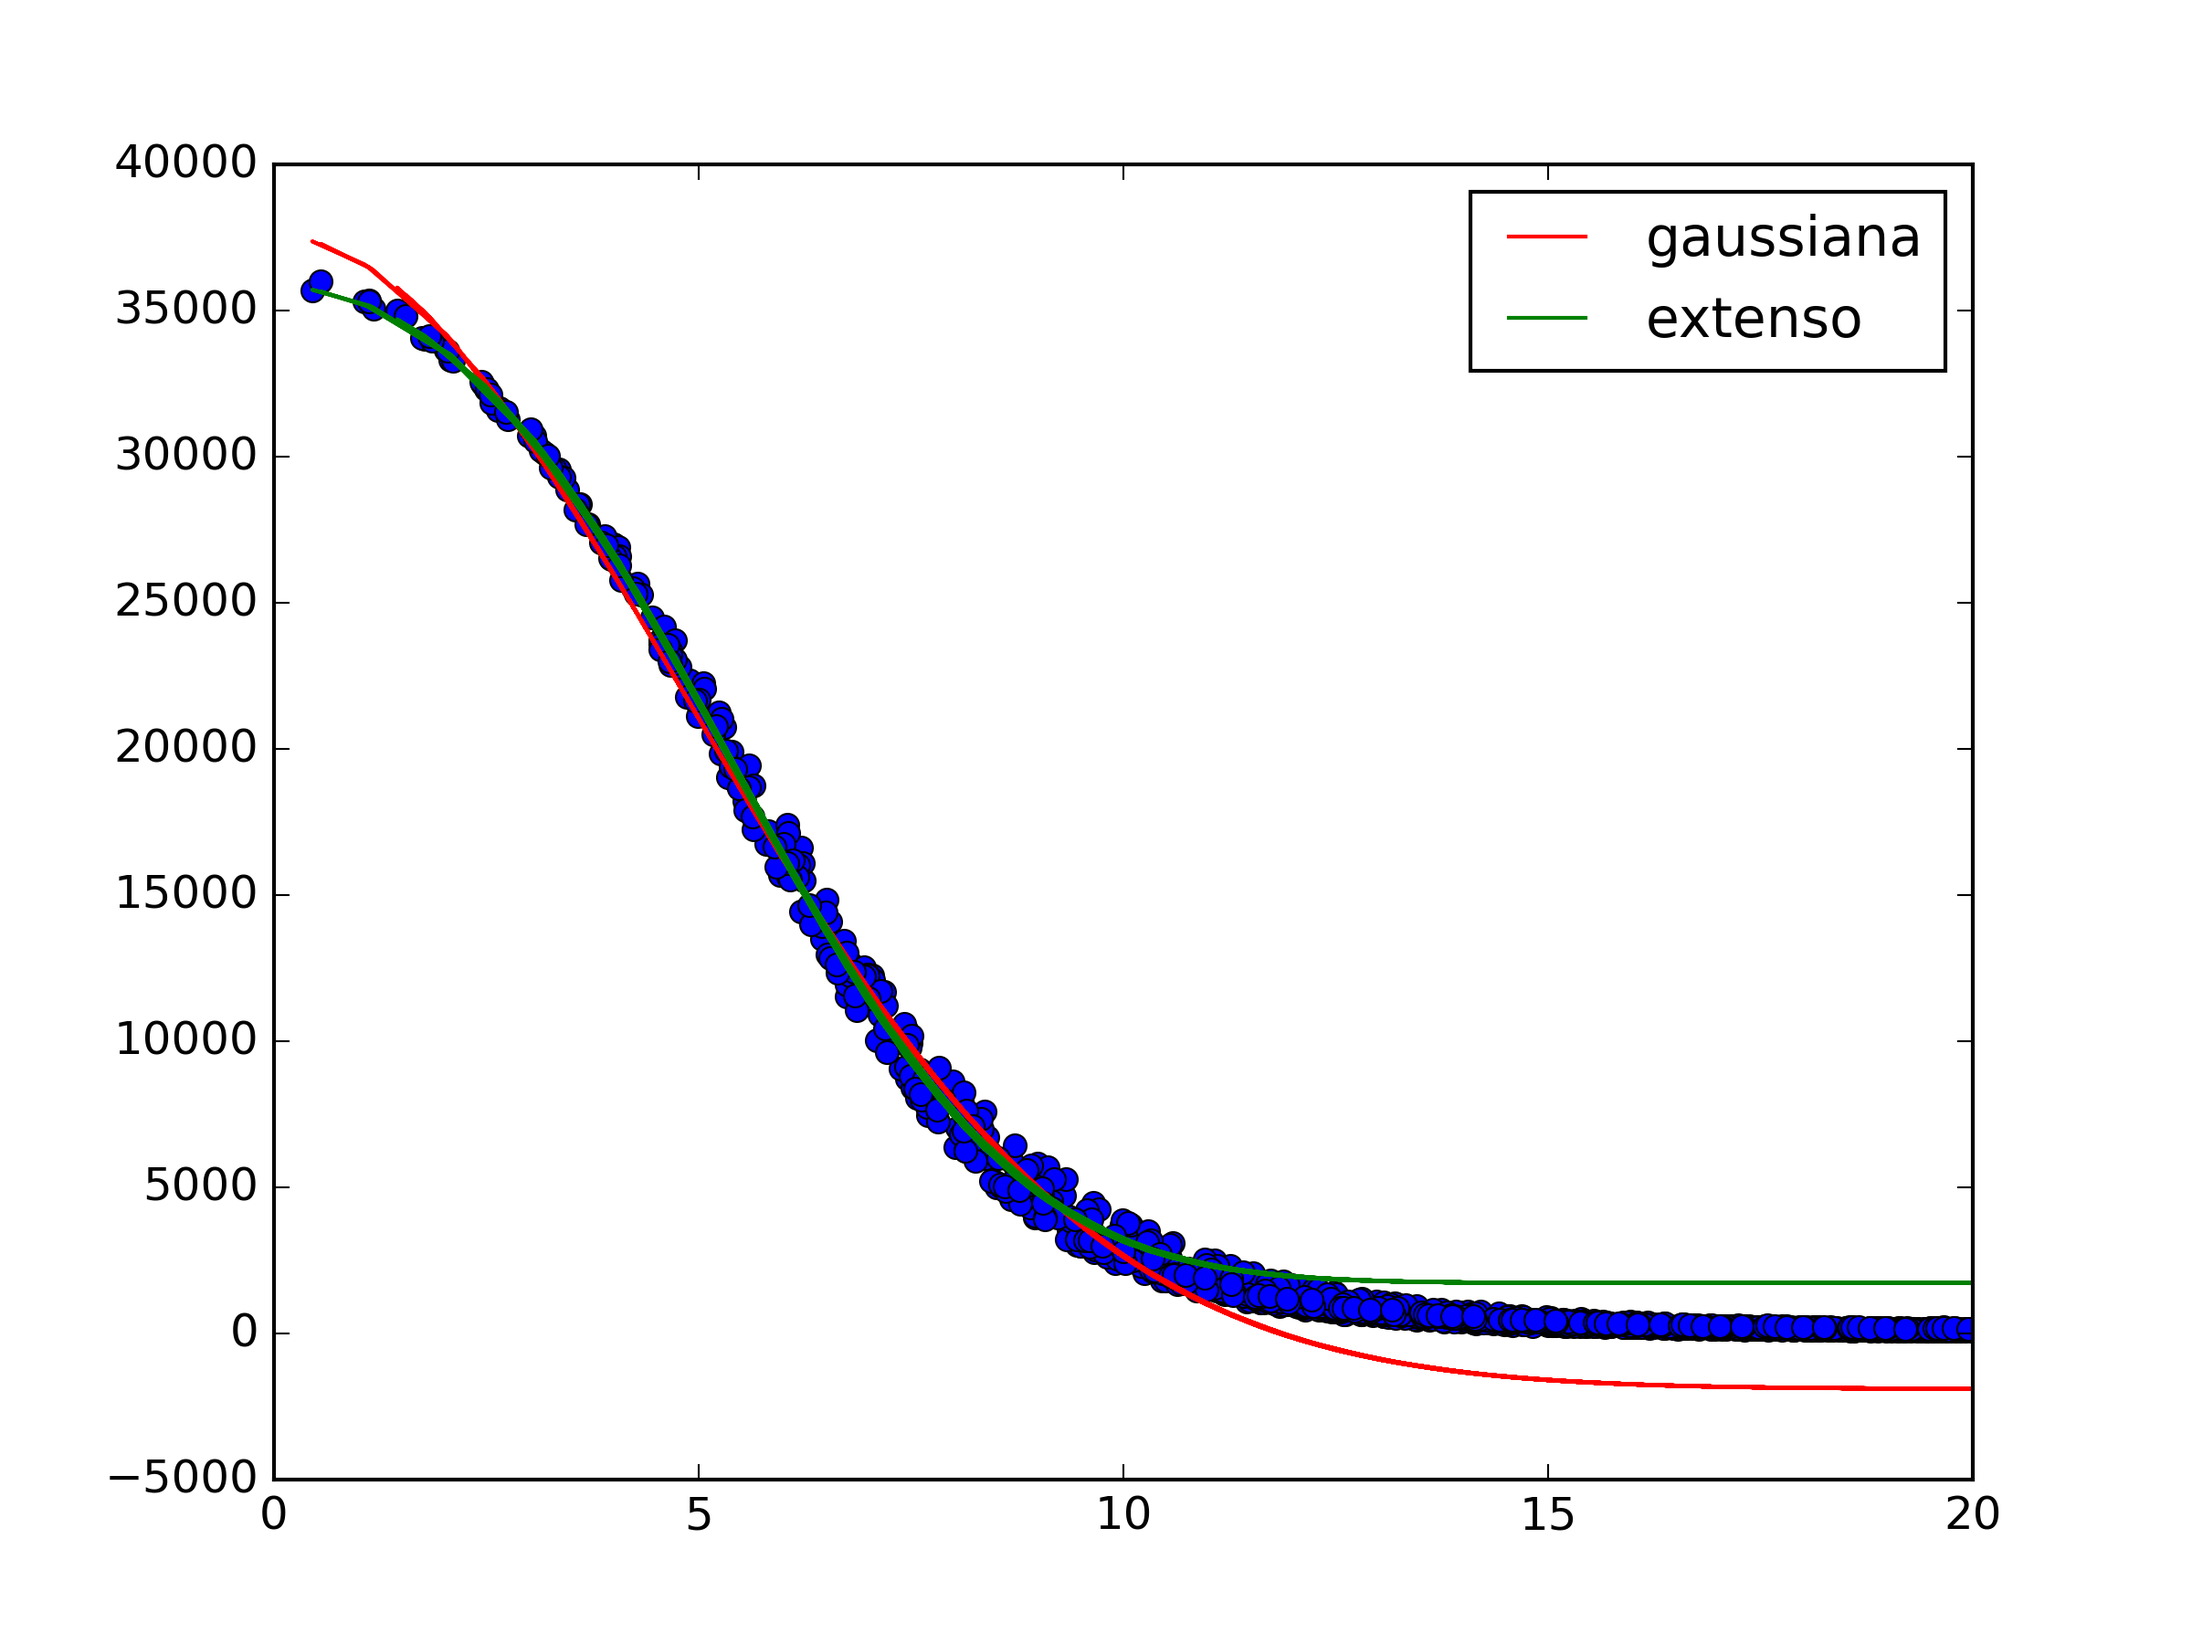
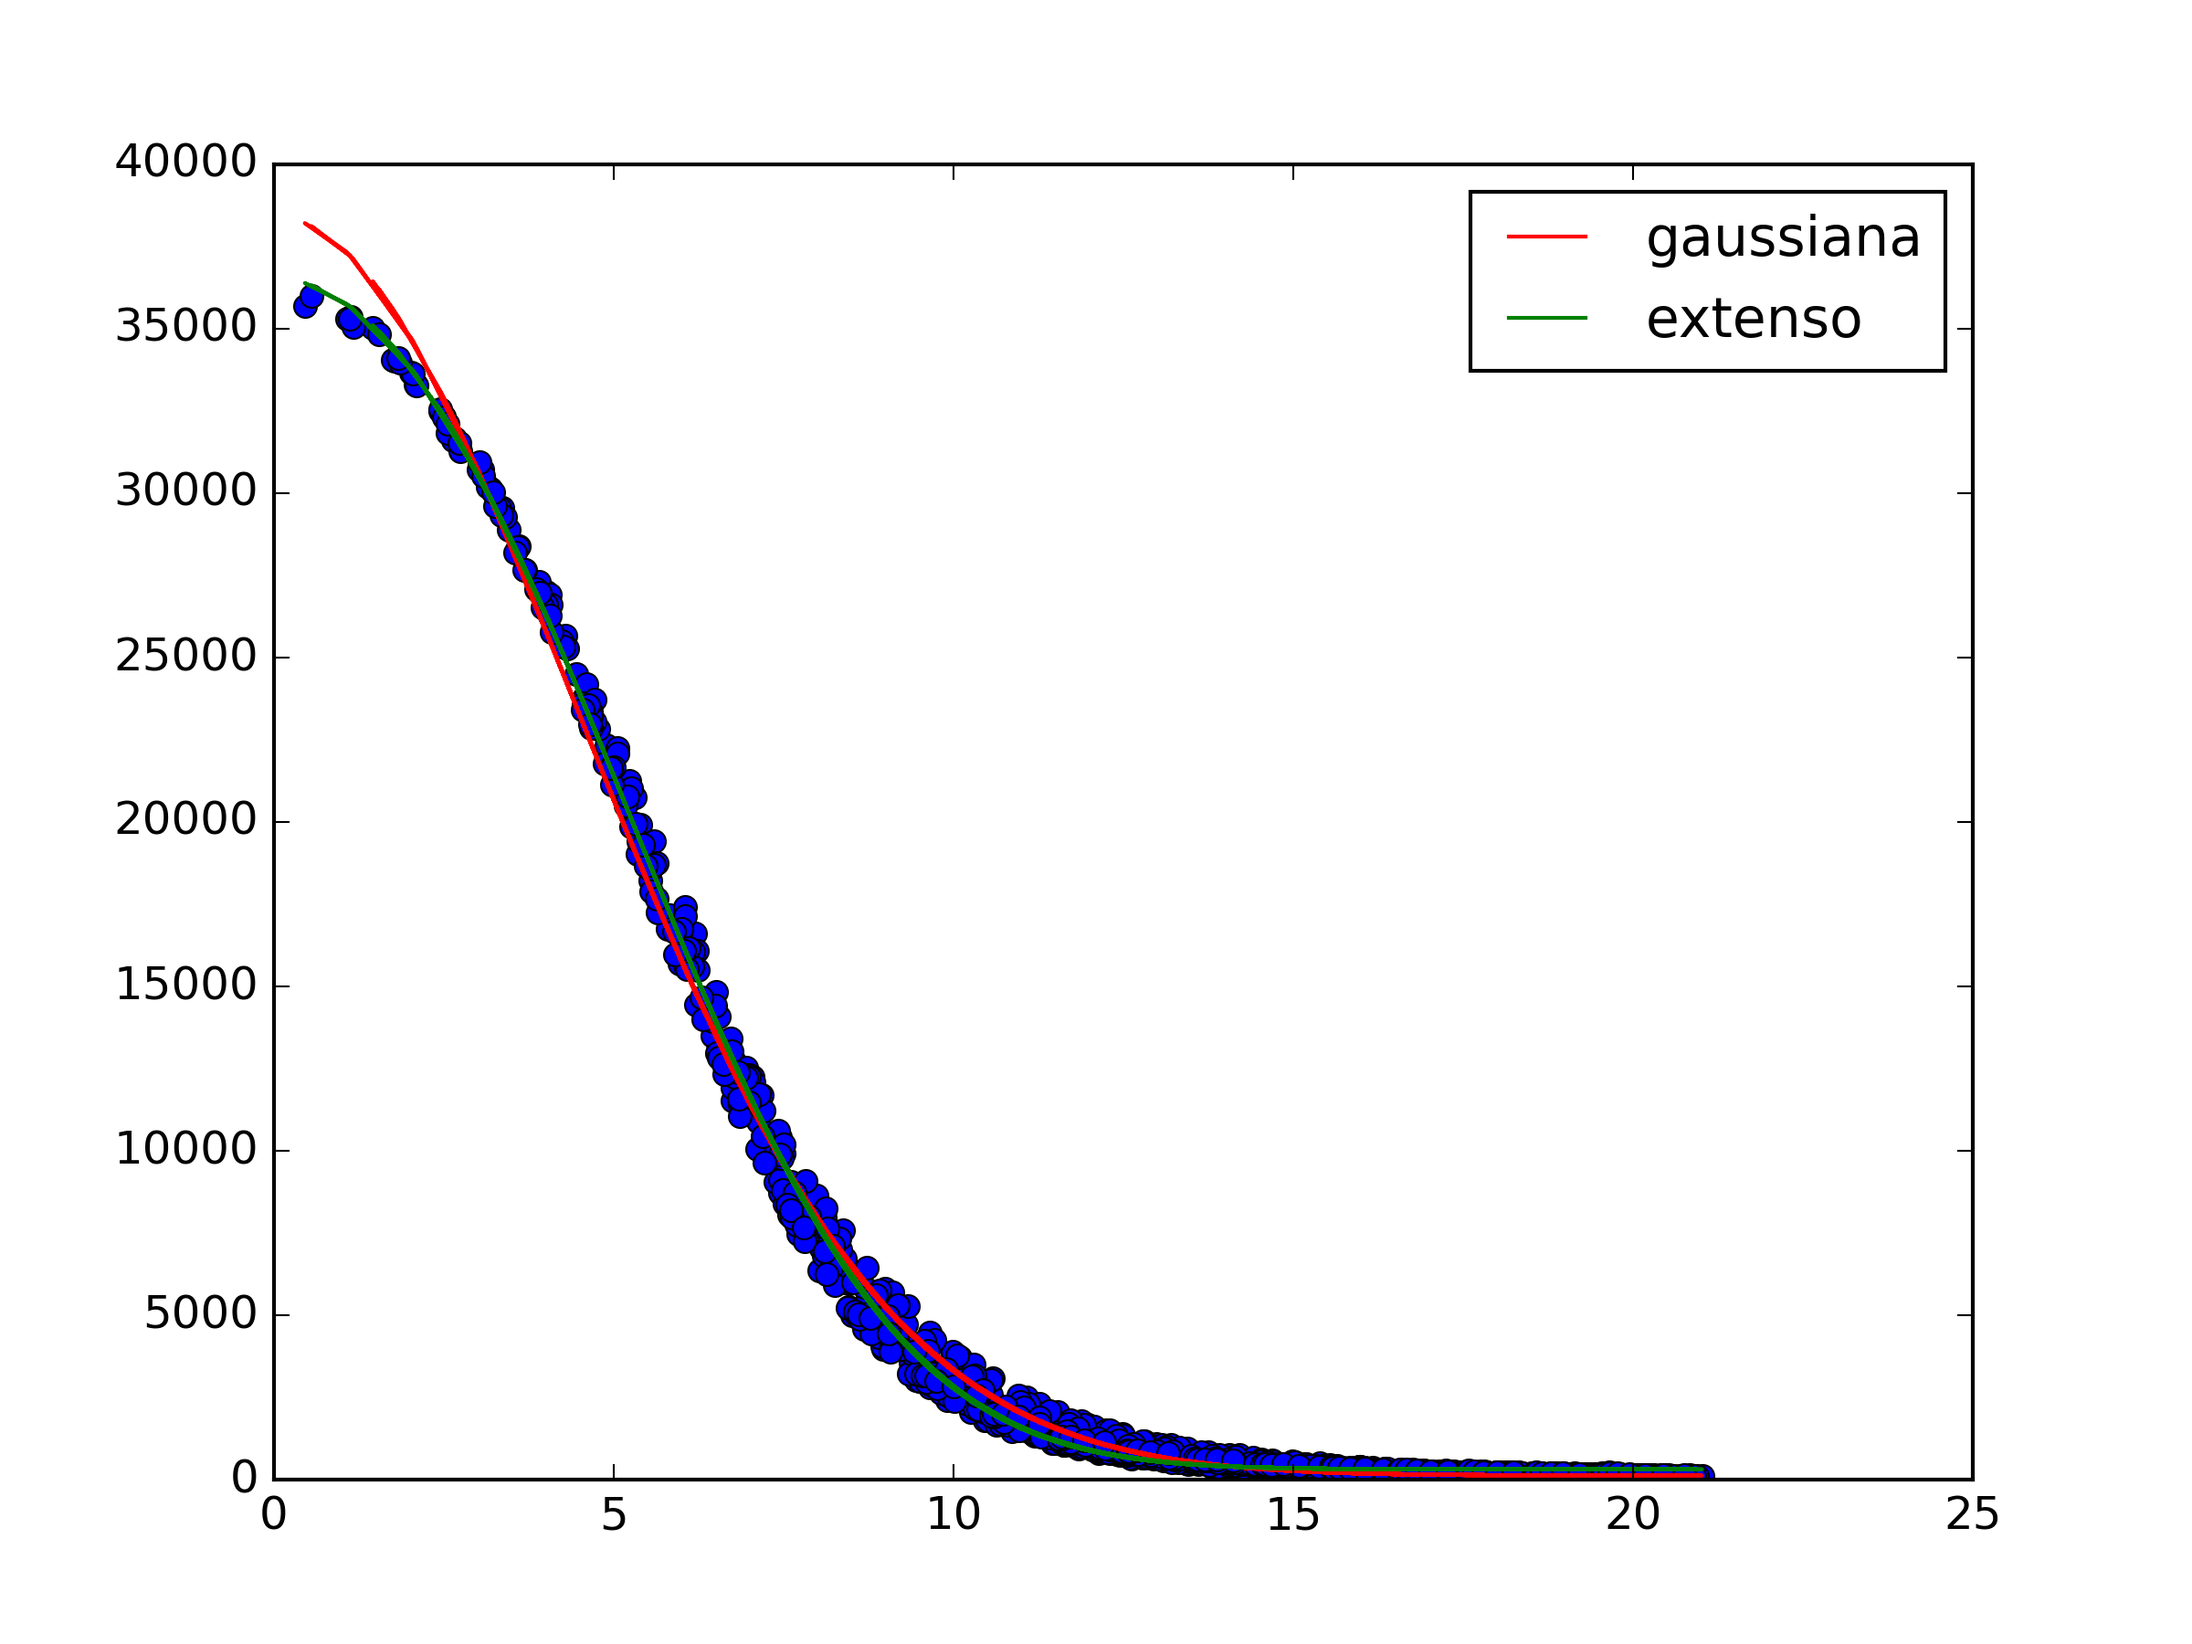
.

diff --git a/Netuno/extenso/extenso.py b/Netuno/extenso/extenso.py
@@ -10,6 +10,15 @@ import scipy.special as special
 
 ##########################################################################
 
+class Memoize:
+    def __init__(self, f):
+        self.f = f
+        self.memo = {}
+    def __call__(self, *args):
+        if not args in self.memo:
+            self.memo[args] = self.f(*args)
+        return self.memo[args]
+
 def gaussian(B,x):
     return B[0]*np.exp(-((x[0]-B[1])*(x[0]-B[1]) + (x[1]-B[2])*(x[1]-B[2]))/(2*B[3]*B[3])) + B[4]
 
@@ -20,6 +29,74 @@ def extenso(B,x):
     integral = np.array([integrate.quad(func_integer,-B[4], B[4], args=[i])[0] for i in np.arange(len(x[0]))])
     return B[0]*np.sqrt(np.pi/2)*B[1]*integral + B[5]
 #    A, sigma, x0, y0, R, c
+def func_z(x, B):
+    return x/(np.sqrt(2)*B)
+    
+def func_w1(x,x0,R,mi,s):
+    return ((x-x0+np.sqrt(R*R-mi*mi)))/(np.sqrt(2)*s)
+
+def func_w2(x,x0,R,mi,s):
+    return ((x-x0-np.sqrt(R*R-mi*mi)))/(np.sqrt(2)*s)
+
+def func_erf(x,x0,R,mi,s):
+    w1 = func_w1(x,x0,R,mi,s)
+    w2 = func_w2(x,x0,R,mi,s)
+    erf = special.erf(w1)-special.erf(w2)
+    return erf
+
+func_z = Memoize(func_z)
+func_w1 = Memoize(func_w1)
+func_w2 = Memoize(func_w2)
+func_erf = Memoize(func_erf)
+
+def derivadas(B,x):
+    def integ1(mi,i):
+        z = (x[0][i] - B[2] - mi)/(np.sqrt(2)*B[1])
+        erf = func_erf(x[1][i], B[3], B[4], mi, B[1])
+#        w1 = ((x[1][i]-B[3]+np.sqrt(B[4]*B[4]-mi*mi)))/(np.sqrt(2)*B[1])
+#        w2 = ((x[1][i]-B[3]-np.sqrt(B[4]*B[4]-mi*mi)))/(np.sqrt(2)*B[1])
+#        erf = special.erf(w1)-special.erf(w2)
+        return np.exp(-z*z)*erf
+    def integ2(mi,i):
+        z = (x[0][i] - B[2] - mi)/(np.sqrt(2)*B[1])
+        erf = func_erf(x[1][i], B[3], B[4], mi, B[1])
+#        w1 = ((x[1][i]-B[3]+np.sqrt(B[4]*B[4]-mi*mi)))/(np.sqrt(2)*B[1])
+#        w2 = ((x[1][i]-B[3]-np.sqrt(B[4]*B[4]-mi*mi)))/(np.sqrt(2)*B[1])
+#        erf = special.erf(w1)-special.erf(w2)
+        return z*np.exp(-z*z)*erf
+    def integ3(mi,i):
+        z = (x[0][i] - B[2] - mi)/(np.sqrt(2)*B[1])
+        w1 = ((x[1][i]-B[3]+np.sqrt(B[4]*B[4]-mi*mi)))/(np.sqrt(2)*B[1])
+        w2 = ((x[1][i]-B[3]-np.sqrt(B[4]*B[4]-mi*mi)))/(np.sqrt(2)*B[1])
+        erf = np.exp(-w1*w1)-np.exp(-w2*w2)
+        return np.exp(-z*z)*erf
+    def integ4(mi,i):
+        z = (x[0][i] - B[2] - mi)/(np.sqrt(2)*B[1])
+        erf = func_erf(x[1][i], B[3], B[4], mi, B[1])
+#        w1 = ((x[1][i]-B[3]+np.sqrt(B[4]*B[4]-mi*mi)))/(np.sqrt(2)*B[1])
+#        w2 = ((x[1][i]-B[3]-np.sqrt(B[4]*B[4]-mi*mi)))/(np.sqrt(2)*B[1])
+#        p1 = np.sqrt(np.pi/2)*(1+2*z*z)*(special.erf(w1)-special.erf(w2))
+        p1 =  np.sqrt(np.pi/2)*(1+2*z*z)*erf
+        p2 = np.sqrt(2)*(w1*np.exp(-w1*w1)-w2*np.exp(-w2*w2))
+        return np.exp(-z*z)*(p1-p2)
+    def integ5(mi,i):
+        z = (x[0][i] - B[2] - mi)/(np.sqrt(2)*B[1])
+        w1 = ((x[1][i]-B[3]+np.sqrt(B[4]*B[4]-mi*mi)))/(np.sqrt(2)*B[1])
+        w2 = ((x[1][i]-B[3]-np.sqrt(B[4]*B[4]-mi*mi)))/(np.sqrt(2)*B[1])
+        erf = np.exp(-w1*w1)+np.exp(-w2*w2)
+        return (B[4]/np.sqrt(B[4]*B[4]-mi*mi))*np.exp(-z*z)*erf
+    integral1 = np.array([integrate.quad(integ1,-B[4], B[4], args=[i])[0] for i in np.arange(len(x[0]))])
+    integral2 = np.array([integrate.quad(integ2,-B[4], B[4], args=[i])[0] for i in np.arange(len(x[0]))])
+    integral3 = np.array([integrate.quad(integ3,-B[4], B[4], args=[i])[0] for i in np.arange(len(x[0]))])
+    integral4 = np.array([integrate.quad(integ4,-B[4], B[4], args=[i])[0] for i in np.arange(len(x[0]))])
+    integral5 = np.array([integrate.quad(integ5,-B[4], B[4], args=[i])[0] for i in np.arange(len(x[0]))])
+    dFdA = np.sqrt(np.pi/2)*B[1]*integral1
+    dFdx0 = B[0]*np.sqrt(np.pi)*integral2
+    dFdy0 = -B[0]*integral3
+    dFds = B[0]*integral4
+    dFdR = -B[0]*integral5
+    dFdc = np.ones(len(x[0]))
+    return np.array([dFdA, dFds, dFdx0, dFdy0, dFdR, dFdc])
 
 #def extenso2(B,x):
 #    def func_integer(mi):
@@ -27,8 +104,8 @@ def extenso(B,x):
 #    integral = integrate.quad(func_integer,-B[4], B[4])
 #    return B[0]*np.sqrt(np.pi/2)*B[1]*integral + B[5]
 
-def least(func, x, y, sy=None, beta0=None, ifixb=None):
-    linear = odrpack.Model(func)
+def least(func, x, y, sy=None, beta0=None, ifixb=None, fjacb=None):
+    linear = odrpack.Model(func, fjacb=fjacb)
     #mydata = odrpack.Data(x, z[1], wd=1./np.power(z[2],2), we=1./np.power(sy,2))
     mydata = odrpack.RealData(x, y, sy=sy)
     myodr = odrpack.ODR(mydata, linear, beta0=beta0, ifixb=ifixb)
@@ -41,25 +118,33 @@ def least(func, x, y, sy=None, beta0=None, ifixb=None):
 
 image = fits.getdata('Netuno_08.21.06_0001.fits')
 a, b = np.indices(image.shape)
-c = np.where(np.sqrt((a-912)**2 + (b-1060)**2) < 20)
+c = np.where(np.sqrt((a-912)**2 + (b-1060)**2) < 10)
 d,e = np.meshgrid(np.arange(c[1].min(), c[1].max()), np.arange(c[0].min(), c[0].max()))
 
 #plt.imshow(image[e,d], cmap='gray')
 
 
-fi = open('saida.txt', 'w')
+#fi = open('saida.txt', 'w')
 x = np.array(c)
 y = image[c]
 
-#t = Time.now()
-#beta0 = np.array([20000.0,912.0,1060.0,1.9, 100.0])
-#aj = least(func=gaussian, x=x, y=y, beta0=beta0)
+t = Time.now()
+betag = np.array([  3.82898171e+04,   9.11453238e+02,   1.05903152e+03,   4.47998911e+00,   1.21856339e+02])
+#aj = least(func=gaussian, x=x, y=y, beta0=betag)
 #fi.write('gaussiana: {} sec, A={}+-{}, x0={}+-{}, y0={}+-{}, sigma={}, c={}+-{}\n\n'.format((Time.now()-t).sec, aj.beta[0], aj.sd_beta[0], aj.beta[1]+1, aj.sd_beta[1], aj.beta[2]+1, aj.sd_beta[2], aj.beta[3], aj.beta[4], aj.sd_beta[4]))
+print (Time.now()-t).sec
 
-#t = Time.now()
-#beta0 = np.array([20000.0,1.9,912.0,1060.0,6.48, 100.0]) # A, sigma, x0, y0, R, c
-#aje = least(func=extenso, x=x, y=y, beta0=beta0)
+t = Time.now()
+betae = np.array([  746.81322157,     3.02038928,   911.45256174,  1059.02927882,     5.84291974,   312.22989524]) # A, sigma, x0, y0, R, c
+aje = least(func=extenso, x=x, y=y, beta0=betae)
 #fi.write('extenso: {} sec, A={}+-{}, x0={}+-{}, y0={}+-{}, sigma={}, R={}+-{}, c={}+-{}\n\n'.format((Time.now()-t).sec, aje.beta[0], aje.sd_beta[0], aje.beta[2]+1, aje.sd_beta[2], aje.beta[3]+1, aje.sd_beta[3], aje.beta[1], aje.beta[4], aje.sd_beta[4], aje.beta[5], aje.sd_beta[5]))
+print (Time.now()-t).sec
+
+t = Time.now()
+betae = np.array([  746.81322157,     3.02038928,   911.45256174,  1059.02927882,     5.84291974,   312.22989524]) # A, sigma, x0, y0, R, c
+aje2 = least(func=extenso, x=x, y=y, beta0=betae, fjacb=derivadas)
+#fi.write('extenso: {} sec, A={}+-{}, x0={}+-{}, y0={}+-{}, sigma={}, R={}+-{}, c={}+-{}\n\n'.format((Time.now()-t).sec, aje.beta[0], aje.sd_beta[0], aje.beta[2]+1, aje.sd_beta[2], aje.beta[3]+1, aje.sd_beta[3], aje.beta[1], aje.beta[4], aje.sd_beta[4], aje.beta[5], aje.sd_beta[5]))
+print (Time.now()-t).sec
 
 #fi.write('extenso (testes)\n')
 #for i in np.arange(0.8, 5.0, 0.2):
@@ -73,7 +158,7 @@ y = image[c]
 #    f = np.sqrt((c[0]-aje.beta[2])**2 + (c[1]-aje.beta[3])**2)
 #    g = np.argsort(f)
 #    plt.plot(f[g], y[g], 'o')
-    #plt.plot(f[g], gaussian(aj.beta, x)[g], label='gaussiana')
+#    plt.plot(f[g], gaussian(aj.beta, x)[g], label='gaussiana')
 #    plt.plot(f[g], extenso(ajt.beta, x)[g], label='extenso')
 #    plt.legend()
 #    plt.savefig('teste_sig_{}.png'.format(i), dpi=300)
@@ -81,16 +166,17 @@ y = image[c]
 
 #fi.close()
 
-c = np.where(np.sqrt((a-911.447964519)**2 + (b-1059.02996984)**2) < 20)
-x = np.array(c)
-f = np.sqrt((c[0]-911.447964519)**2 + (c[1]-1059.02996984)**2)
+#c = np.where(np.sqrt((a-aje.beta[2])**2 + (b-aje.beta[3])**2) < 20)
+#x = np.array(c)
+f = np.sqrt((x[0]-betae[2])**2 + (x[1]-betae[3])**2)
 #g = np.argsort(f)
-plt.plot(f, image[c], 'o')
+#plt.plot(f, image[c], 'o')
 
-beta1=np.array([39438.8794772, 911.447964519, 1059.02996984, 4.80370494377, -1898.25592524])
-beta2=np.array([884.728146958, 2.56992636061, 911.440791197, 1059.0107055, 5.9031003977, 1726.15672919])
-plt.plot(f, gaussian(beta1, x), label='gaussiana', color='red')
-plt.plot(f, extenso(beta2, x), label='extenso', color='green')
+#beta1=np.array([39438.8794772, 911.447964519, 1059.02996984, 4.80370494377, -1898.25592524])
+#beta2=np.array([884.728146958, 2.56992636061, 911.440791197, 1059.0107055, 5.9031003977, 1726.15672919])
+plt.plot(f, y - gaussian(betag, x), 'o', label='gaussiana', color='red')
+plt.plot(f, y - extenso(betae, x), 'o', label='extenso', color='green')
+plt.axhline(0.0)
 plt.legend()
-plt.savefig('ajuste2.png', dpi=300)
+plt.savefig('ajuste3.png', dpi=300)
 
